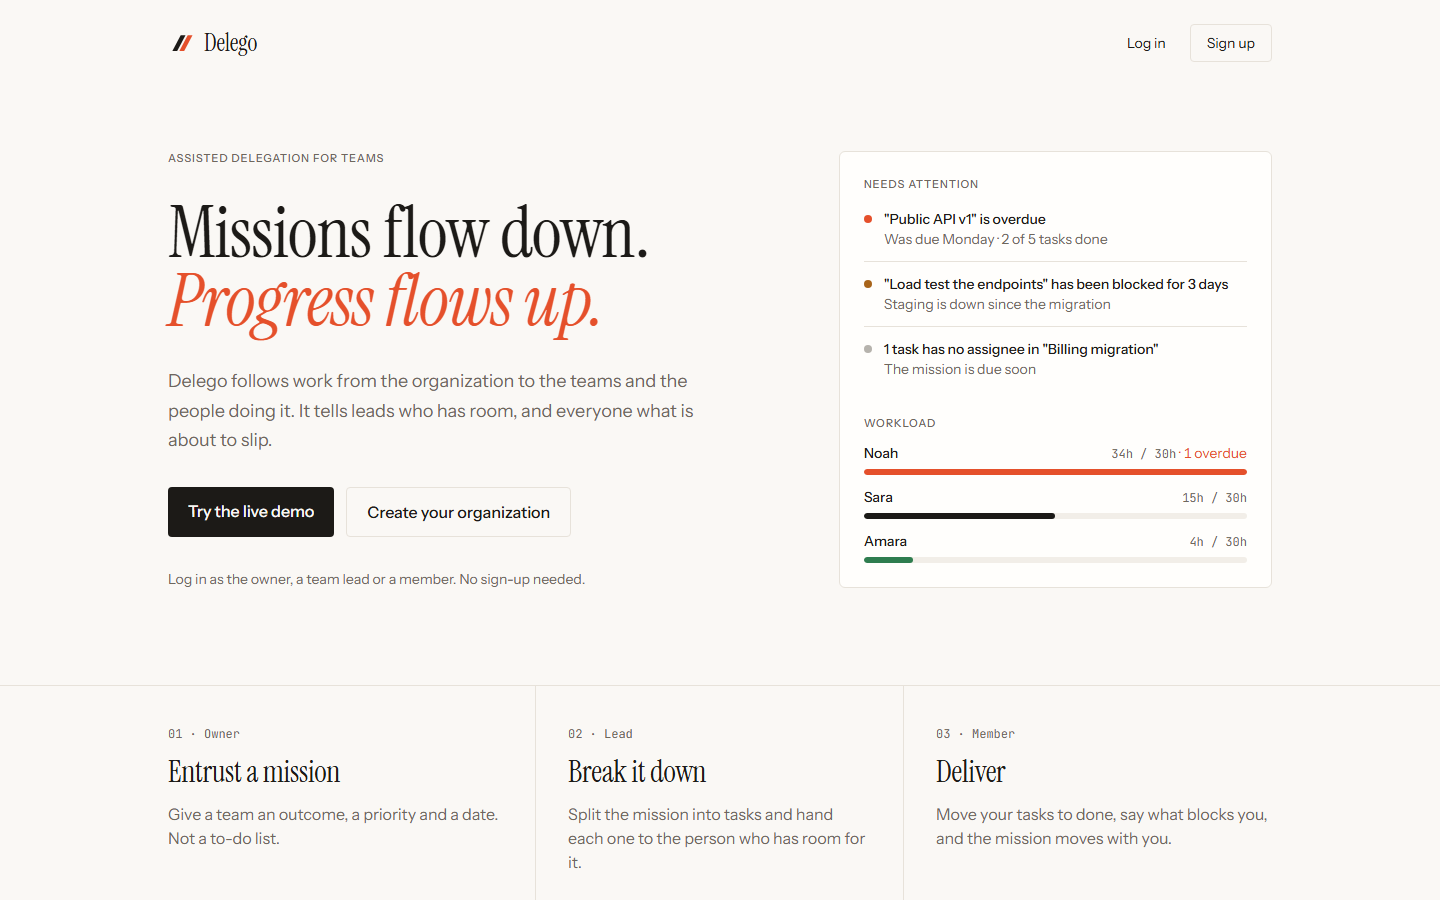
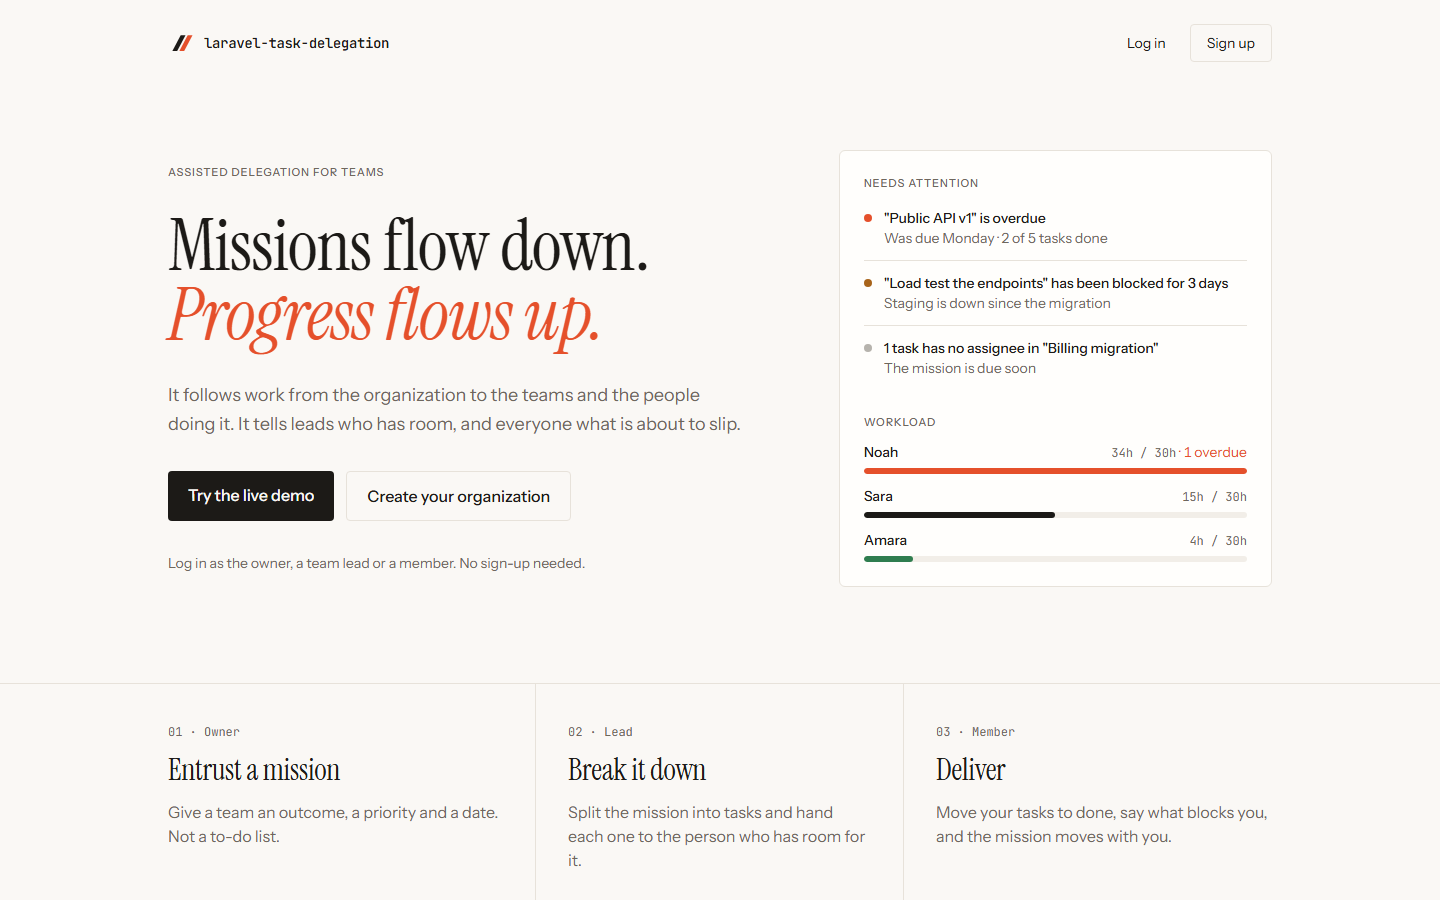
chore: rename to laravel-task-delegation
A descriptive, technical name instead of a brand that already exists. Configuration moves to config/delegation.php with DELEGATION_* variables; the wordmark is set in the mono face.

diff --git a/resources/js/pages/Welcome.vue b/resources/js/pages/Welcome.vue
@@ -61,7 +61,7 @@ const judgment = [
         <header class="mx-auto flex max-w-6xl items-center justify-between px-6 py-6">
             <Link :href="route('home')" class="flex items-center gap-2">
                 <AppLogoIcon class="text-foreground size-7" />
-                <span class="font-display text-2xl leading-none">Delego</span>
+                <span class="font-mono text-sm font-medium tracking-tight">laravel-task-delegation</span>
             </Link>
 
             <nav class="flex items-center gap-2 text-sm">
@@ -88,8 +88,8 @@ const judgment = [
                         <em class="text-signal">Progress flows up.</em>
                     </h1>
                     <p class="text-muted-foreground max-w-xl text-lg leading-relaxed">
-                        Delego follows work from the organization to the teams and the people doing it. It tells leads who has room, and everyone what
-                        is about to slip.
+                        It follows work from the organization to the teams and the people doing it. It tells leads who has room, and everyone what is
+                        about to slip.
                     </p>
                     <div class="flex flex-wrap gap-3">
                         <Link :href="route('login')" class="bg-primary text-primary-foreground rounded-md px-5 py-3 font-medium">
@@ -102,7 +102,7 @@ const judgment = [
                     <p class="text-muted-foreground text-sm">Log in as the owner, a team lead or a member. No sign-up needed.</p>
                 </div>
 
-                <figure class="bg-card space-y-6 rounded-lg border p-6" aria-label="Preview of the Delego dashboard">
+                <figure class="bg-card space-y-6 rounded-lg border p-6" aria-label="Preview of the dashboard">
                     <div>
                         <p class="eyebrow mb-1">Needs attention</p>
                         <RiskList :risks="sampleRisks" />
@@ -146,9 +146,9 @@ const judgment = [
             <div class="text-muted-foreground mx-auto flex max-w-6xl flex-wrap items-center justify-between gap-4 px-6 py-8 text-sm">
                 <span class="flex items-center gap-2">
                     <AppLogoIcon class="text-foreground size-5" />
-                    Delego — Laravel, Inertia and Vue.
+                    laravel-task-delegation — Laravel, Inertia and Vue.
                 </span>
-                <a href="https://github.com/FenoAndria/team-flow" class="hover:text-foreground">Source on GitHub</a>
+                <a href="https://github.com/FenoAndria/laravel-task-delegation" class="hover:text-foreground">Source on GitHub</a>
             </div>
         </footer>
     </div>

diff --git a/resources/js/layouts/auth/AuthSplitLayout.vue b/resources/js/layouts/auth/AuthSplitLayout.vue
@@ -19,7 +19,7 @@ const chain = [
         <aside class="relative hidden flex-col justify-between bg-[#1c1a17] p-12 text-[#ede8e0] lg:flex">
             <Link :href="route('home')" class="flex items-center gap-2">
                 <AppLogoIcon class="size-8 text-[#ede8e0]" />
-                <span class="font-display text-3xl leading-none">Delego</span>
+                <span class="font-mono text-sm font-medium tracking-tight">laravel-task-delegation</span>
             </Link>
 
             <div class="max-w-md space-y-10">
@@ -43,7 +43,7 @@ const chain = [
             <div class="w-full max-w-sm space-y-8">
                 <Link :href="route('home')" class="flex items-center gap-2 lg:hidden">
                     <AppLogoIcon class="text-foreground size-7" />
-                    <span class="font-display text-2xl leading-none">Delego</span>
+                    <span class="font-mono text-sm font-medium tracking-tight">laravel-task-delegation</span>
                 </Link>
 
                 <div v-if="title || description" class="space-y-2">

diff --git a/resources/js/pages/settings/Organization.vue b/resources/js/pages/settings/Organization.vue
@@ -40,7 +40,7 @@ const submit = () => {
 
         <SettingsLayout>
             <div class="flex flex-col space-y-6">
-                <HeadingSmall title="Organization" description="The name your members see across Delego" />
+                <HeadingSmall title="Organization" description="The name your members see across the app" />
 
                 <form @submit.prevent="submit" class="space-y-6">
                     <div class="grid gap-2">

diff --git a/resources/js/components/AppLogo.vue b/resources/js/components/AppLogo.vue
@@ -10,5 +10,5 @@ defineProps<Props>();
 
 <template>
     <AppLogoIcon class="text-foreground size-7 shrink-0" />
-    <span class="font-display ml-1 truncate text-2xl leading-none">Delego</span>
+    <span class="ml-1 truncate font-mono text-sm font-medium tracking-tight">laravel-task-delegation</span>
 </template>

diff --git a/resources/css/app.css b/resources/css/app.css
@@ -12,7 +12,7 @@
 @custom-variant dark (&:is(.dark *));
 
 /*
- * Delego — "Ink & signal".
+ * laravel-task-delegation — "Ink & signal".
  * Warm paper, ink text, hairline rules and a single vermilion signal
  * reserved for the brand and for what needs attention. No shadows.
  */

diff --git a/tests/Feature/Missions/BreakdownTest.php b/tests/Feature/Missions/BreakdownTest.php
@@ -17,7 +17,7 @@ function aiReplies(string $content): void
 }
 
 beforeEach(function () {
-    config(['delego.ai' => [
+    config(['delegation.ai' => [
         'base_url' => 'https://ai.test/v1',
         'api_key' => 'secret',
         'model' => 'free-model',
@@ -112,14 +112,14 @@ test('only people who manage the tasks can use the assistant', function () {
 });
 
 test('the assistant is off without configuration or on a closed mission', function () {
-    config(['delego.ai.api_key' => null]);
+    config(['delegation.ai.api_key' => null]);
 
     $this->actingAs($this->lead)->post(route('missions.breakdown', $this->mission))->assertSessionHasErrors('breakdown');
     $this->actingAs($this->lead)
         ->get(route('missions.show', $this->mission))
         ->assertInertia(fn (Assert $page) => $page->where('can.breakdown', false));
 
-    config(['delego.ai.api_key' => 'secret']);
+    config(['delegation.ai.api_key' => 'secret']);
     $this->mission->update(['status' => MissionStatus::Completed]);
 
     $this->actingAs($this->lead)
@@ -141,7 +141,7 @@ test('missions of another organization are out of reach', function () {
 });
 
 test('a saturated model hands over to the next one', function () {
-    config(['delego.ai.model' => 'busy-model, spare-model']);
+    config(['delegation.ai.model' => 'busy-model, spare-model']);
     Http::fake(fn ($request) => $request['model'] === 'busy-model'
         ? Http::response(['error' => 'rate limited'], 429)
         : Http::response(['choices' => [['message' => ['content' => '{"tasks": [{"title": "From the spare", "estimate_hours": 2}]}']]]]));
@@ -154,7 +154,7 @@ test('a saturated model hands over to the next one', function () {
 });
 
 test('a rejected key does not try every model', function () {
-    config(['delego.ai.model' => 'first-model,second-model']);
+    config(['delegation.ai.model' => 'first-model,second-model']);
     Http::fake(['ai.test/*' => Http::response(['error' => 'invalid key'], 401)]);
 
     $this->actingAs($this->lead)

diff --git a/app/Delegation/RiskDetector.php b/app/Delegation/RiskDetector.php
@@ -55,7 +55,7 @@ class RiskDetector
 
         if ($mission->isOverdue()) {
             $risks[] = $this->risk('high', 'mission_overdue', "\"{$mission->title}\" is overdue", "Was due {$mission->due_date?->toFormattedDayDateString()} · {$progress}", $url);
-        } elseif ($mission->due_date !== null && $mission->due_date->lte(today()->addDays((int) config('delego.risks.due_soon_days')))) {
+        } elseif ($mission->due_date !== null && $mission->due_date->lte(today()->addDays((int) config('delegation.risks.due_soon_days')))) {
             $total = $tasks->count();
 
             if ($total === 0 || $done / $total < 0.75) {
@@ -69,7 +69,7 @@ class RiskDetector
             $risks[] = $this->risk('medium', 'mission_without_lead', "\"{$mission->title}\" has no lead", "Appoint a lead for {$mission->team->name} to break it down", $url);
         }
 
-        $blockedSince = now()->subDays((int) config('delego.risks.blocked_for_days'));
+        $blockedSince = now()->subDays((int) config('delegation.risks.blocked_for_days'));
 
         foreach ($tasks as $task) {
             /** @var Task $task */
@@ -83,7 +83,7 @@ class RiskDetector
         }
 
         $unassigned = $tasks->filter(fn (Task $task) => $task->status->isOpen() && $task->assignee_id === null)->count();
-        $dueWithin = today()->addDays((int) config('delego.risks.unassigned_due_within_days'));
+        $dueWithin = today()->addDays((int) config('delegation.risks.unassigned_due_within_days'));
 
         if ($unassigned > 0 && $mission->due_date !== null && $mission->due_date->lte($dueWithin)) {
             $label = $unassigned === 1 ? '1 task has' : "{$unassigned} tasks have";

diff --git a/app/Delegation/Ai/ChatClient.php b/app/Delegation/Ai/ChatClient.php
@@ -13,7 +13,7 @@ class ChatClient
 {
     public static function isConfigured(): bool
     {
-        return filled(config('delego.ai.api_key')) && filled(config('delego.ai.model'));
+        return filled(config('delegation.ai.api_key')) && filled(config('delegation.ai.model'));
     }
 
     /**
@@ -35,9 +35,9 @@ class ChatClient
         // Free models get saturated: on a rate limit or provider error, try the next one.
         foreach (self::models() as $model) {
             try {
-                $response = Http::baseUrl((string) config('delego.ai.base_url'))
-                    ->withToken((string) config('delego.ai.api_key'))
-                    ->timeout((int) config('delego.ai.timeout'))
+                $response = Http::baseUrl((string) config('delegation.ai.base_url'))
+                    ->withToken((string) config('delegation.ai.api_key'))
+                    ->timeout((int) config('delegation.ai.timeout'))
                     ->acceptJson()
                     ->post('/chat/completions', [
                         'model' => $model,
@@ -63,13 +63,13 @@ class ChatClient
     }
 
     /**
-     * Models to try in order, from a comma-separated DELEGO_AI_MODEL.
+     * Models to try in order, from a comma-separated DELEGATION_AI_MODEL.
      *
      * @return list<string>
      */
     public static function models(): array
     {
-        return array_values(array_filter(array_map('trim', explode(',', (string) config('delego.ai.model')))));
+        return array_values(array_filter(array_map('trim', explode(',', (string) config('delegation.ai.model')))));
     }
 
     /**

diff --git a/tests/Feature/DemoTest.php b/tests/Feature/DemoTest.php
@@ -21,7 +21,7 @@ test('the demo seeder builds a living organization', function () {
 });
 
 test('every persona reaches the dashboard', function (string $persona) {
-    config(['delego.demo' => true]);
+    config(['delegation.demo' => true]);
     $this->seed(DemoSeeder::class);
 
     $this->post(route('demo.login', $persona))->assertRedirect(route('dashboard'));
@@ -31,7 +31,7 @@ test('every persona reaches the dashboard', function (string $persona) {
 })->with(array_keys(DemoSeeder::PERSONAS));
 
 test('one-click login does not exist outside demo mode', function () {
-    config(['delego.demo' => false]);
+    config(['delegation.demo' => false]);
     $this->seed(DemoSeeder::class);
 
     $this->post(route('demo.login', 'admin'))->assertNotFound();
@@ -39,13 +39,13 @@ test('one-click login does not exist outside demo mode', function () {
 });
 
 test('unknown personas are not found', function () {
-    config(['delego.demo' => true]);
+    config(['delegation.demo' => true]);
 
     $this->post(route('demo.login', 'root'))->assertNotFound();
 });
 
 test('the reset command refuses to run outside demo mode', function () {
-    config(['delego.demo' => false]);
+    config(['delegation.demo' => false]);
 
     $this->artisan('demo:reset')->assertFailed();
 });

diff --git a/config/delegation.php b/config/delegation.php
@@ -12,7 +12,7 @@ return [
     |
     */
 
-    'demo' => (bool) env('DELEGO_DEMO', false),
+    'demo' => (bool) env('DELEGATION_DEMO', false),
 
     /*
     |--------------------------------------------------------------------------
@@ -26,7 +26,7 @@ return [
     */
 
     'workload' => [
-        'weekly_capacity_hours' => (int) env('DELEGO_WEEKLY_CAPACITY_HOURS', 30),
+        'weekly_capacity_hours' => (int) env('DELEGATION_WEEKLY_CAPACITY_HOURS', 30),
         'default_estimate_hours' => 3,
     ],
 
@@ -54,11 +54,11 @@ return [
     */
 
     'ai' => [
-        'base_url' => rtrim((string) env('DELEGO_AI_BASE_URL', 'https://openrouter.ai/api/v1'), '/'),
-        'api_key' => env('DELEGO_AI_API_KEY'),
-        'model' => env('DELEGO_AI_MODEL'),
-        'timeout' => (int) env('DELEGO_AI_TIMEOUT', 30),
-        'max_per_hour' => (int) env('DELEGO_AI_MAX_PER_HOUR', 10),
+        'base_url' => rtrim((string) env('DELEGATION_AI_BASE_URL', 'https://openrouter.ai/api/v1'), '/'),
+        'api_key' => env('DELEGATION_AI_API_KEY'),
+        'model' => env('DELEGATION_AI_MODEL'),
+        'timeout' => (int) env('DELEGATION_AI_TIMEOUT', 30),
+        'max_per_hour' => (int) env('DELEGATION_AI_MAX_PER_HOUR', 10),
     ],
 
 ];

diff --git a/database/seeders/DemoSeeder.php b/database/seeders/DemoSeeder.php
@@ -22,7 +22,7 @@ use Illuminate\Database\Seeder;
 use Illuminate\Support\Facades\Hash;
 
 /**
- * A believable organization to explore Delego with, dated relative to today
+ * A believable organization to explore the app with, dated relative to today
  * so the demo never looks stale.
  */
 class DemoSeeder extends Seeder
@@ -31,9 +31,9 @@ class DemoSeeder extends Seeder
      * The three people the demo lets visitors log in as.
      */
     public const PERSONAS = [
-        'admin' => 'maya@delego.test',
-        'lead' => 'tom@delego.test',
-        'member' => 'sara@delego.test',
+        'admin' => 'maya@task-delegation.test',
+        'lead' => 'tom@task-delegation.test',
+        'member' => 'sara@task-delegation.test',
     ];
 
     /** @var array<string, User> */
@@ -116,7 +116,7 @@ class DemoSeeder extends Seeder
     {
         $user = User::create([
             'name' => $name,
-            'email' => "{$key}@delego.test",
+            'email' => "{$key}@task-delegation.test",
             'password' => Hash::make('password'),
             'email_verified_at' => now(),
         ]);

diff --git a/resources/views/app.blade.php b/resources/views/app.blade.php
@@ -4,8 +4,8 @@
         <meta charset="utf-8">
         <meta name="viewport" content="width=device-width, initial-scale=1">
 
-        <title inertia>{{ config('app.name', 'Delego') }}</title>
-        <meta name="description" content="Delego — assisted delegation for teams. Missions flow down, progress flows up.">
+        <title inertia>{{ config('app.name', 'laravel-task-delegation') }}</title>
+        <meta name="description" content="laravel-task-delegation — assisted delegation for teams. Missions flow down, progress flows up.">
         <link rel="icon" href="/favicon.svg" type="image/svg+xml">
         <meta name="theme-color" content="#faf8f5">
 
